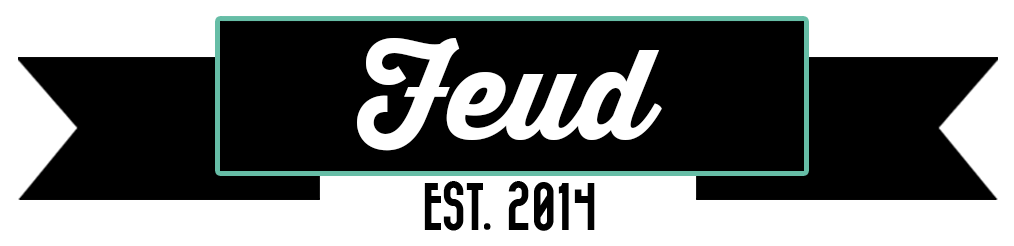
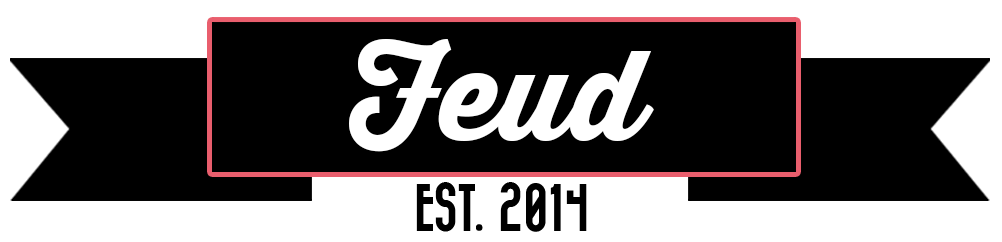
fix game state and color

diff --git a/templates/feud/index.html b/templates/feud/index.html
@@ -51,7 +51,7 @@
                 this.game.add.sprite(26, 730, 'multiplayer');
                 this.game.add.sprite(985, 0, 'select_category');
                 this.game.add.sprite(958, this.game.height/2, 'bar').anchor.setTo(0.5, 0.5);
-                this.game.stage.backgroundColor = '#d53243';
+                this.game.stage.backgroundColor = '#e95e6d';
 
                 this.game.add.button(990, 350, 'pop_music', function(){this.category_click('Pop Music');}, this);
                 this.game.add.button(990, 450, 'wall_street', function(){this.category_click('Wall Street');}, this);
@@ -104,7 +104,7 @@
 
             start_timer: function() {
                 var y_clock_frame = this.game.world.centerY - 165;
-                this.game.stage.backgroundColor = '#d53243';
+                this.game.stage.backgroundColor = '#e95e6d';
                 this.timer = game.time.create(false);
                 this.timer.loop(12000, this.round_end, this);
                 this.timer.start();
